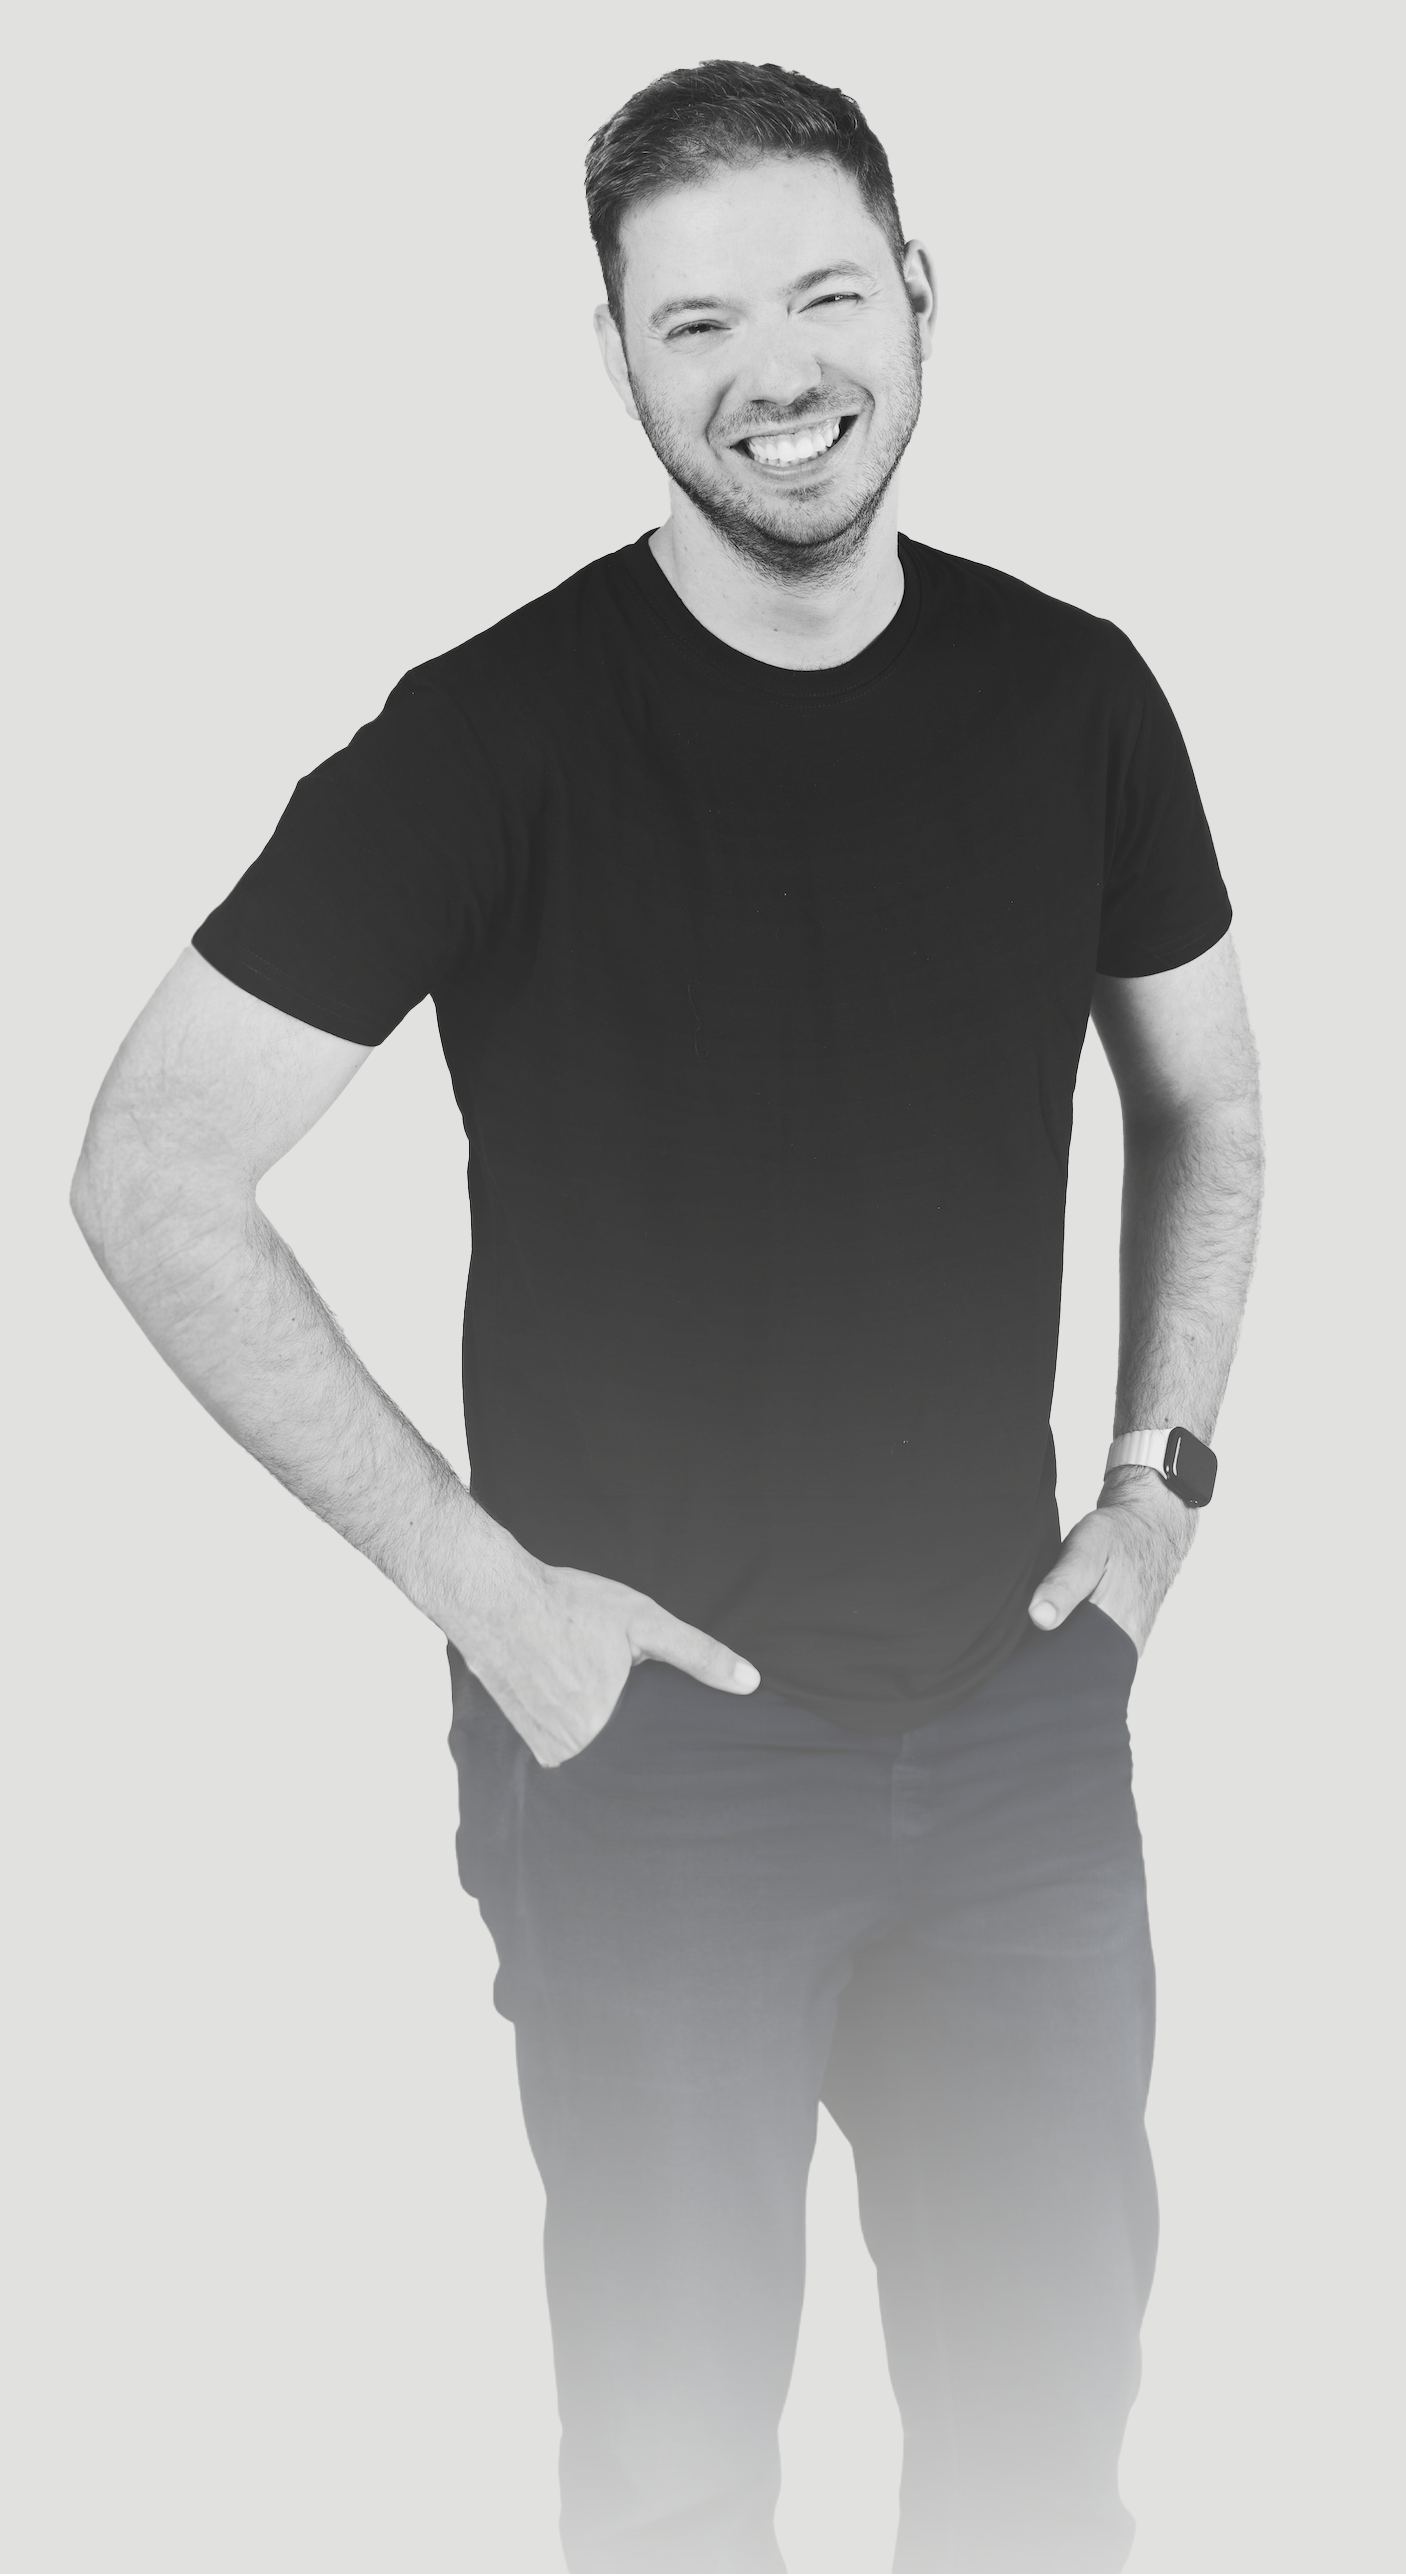
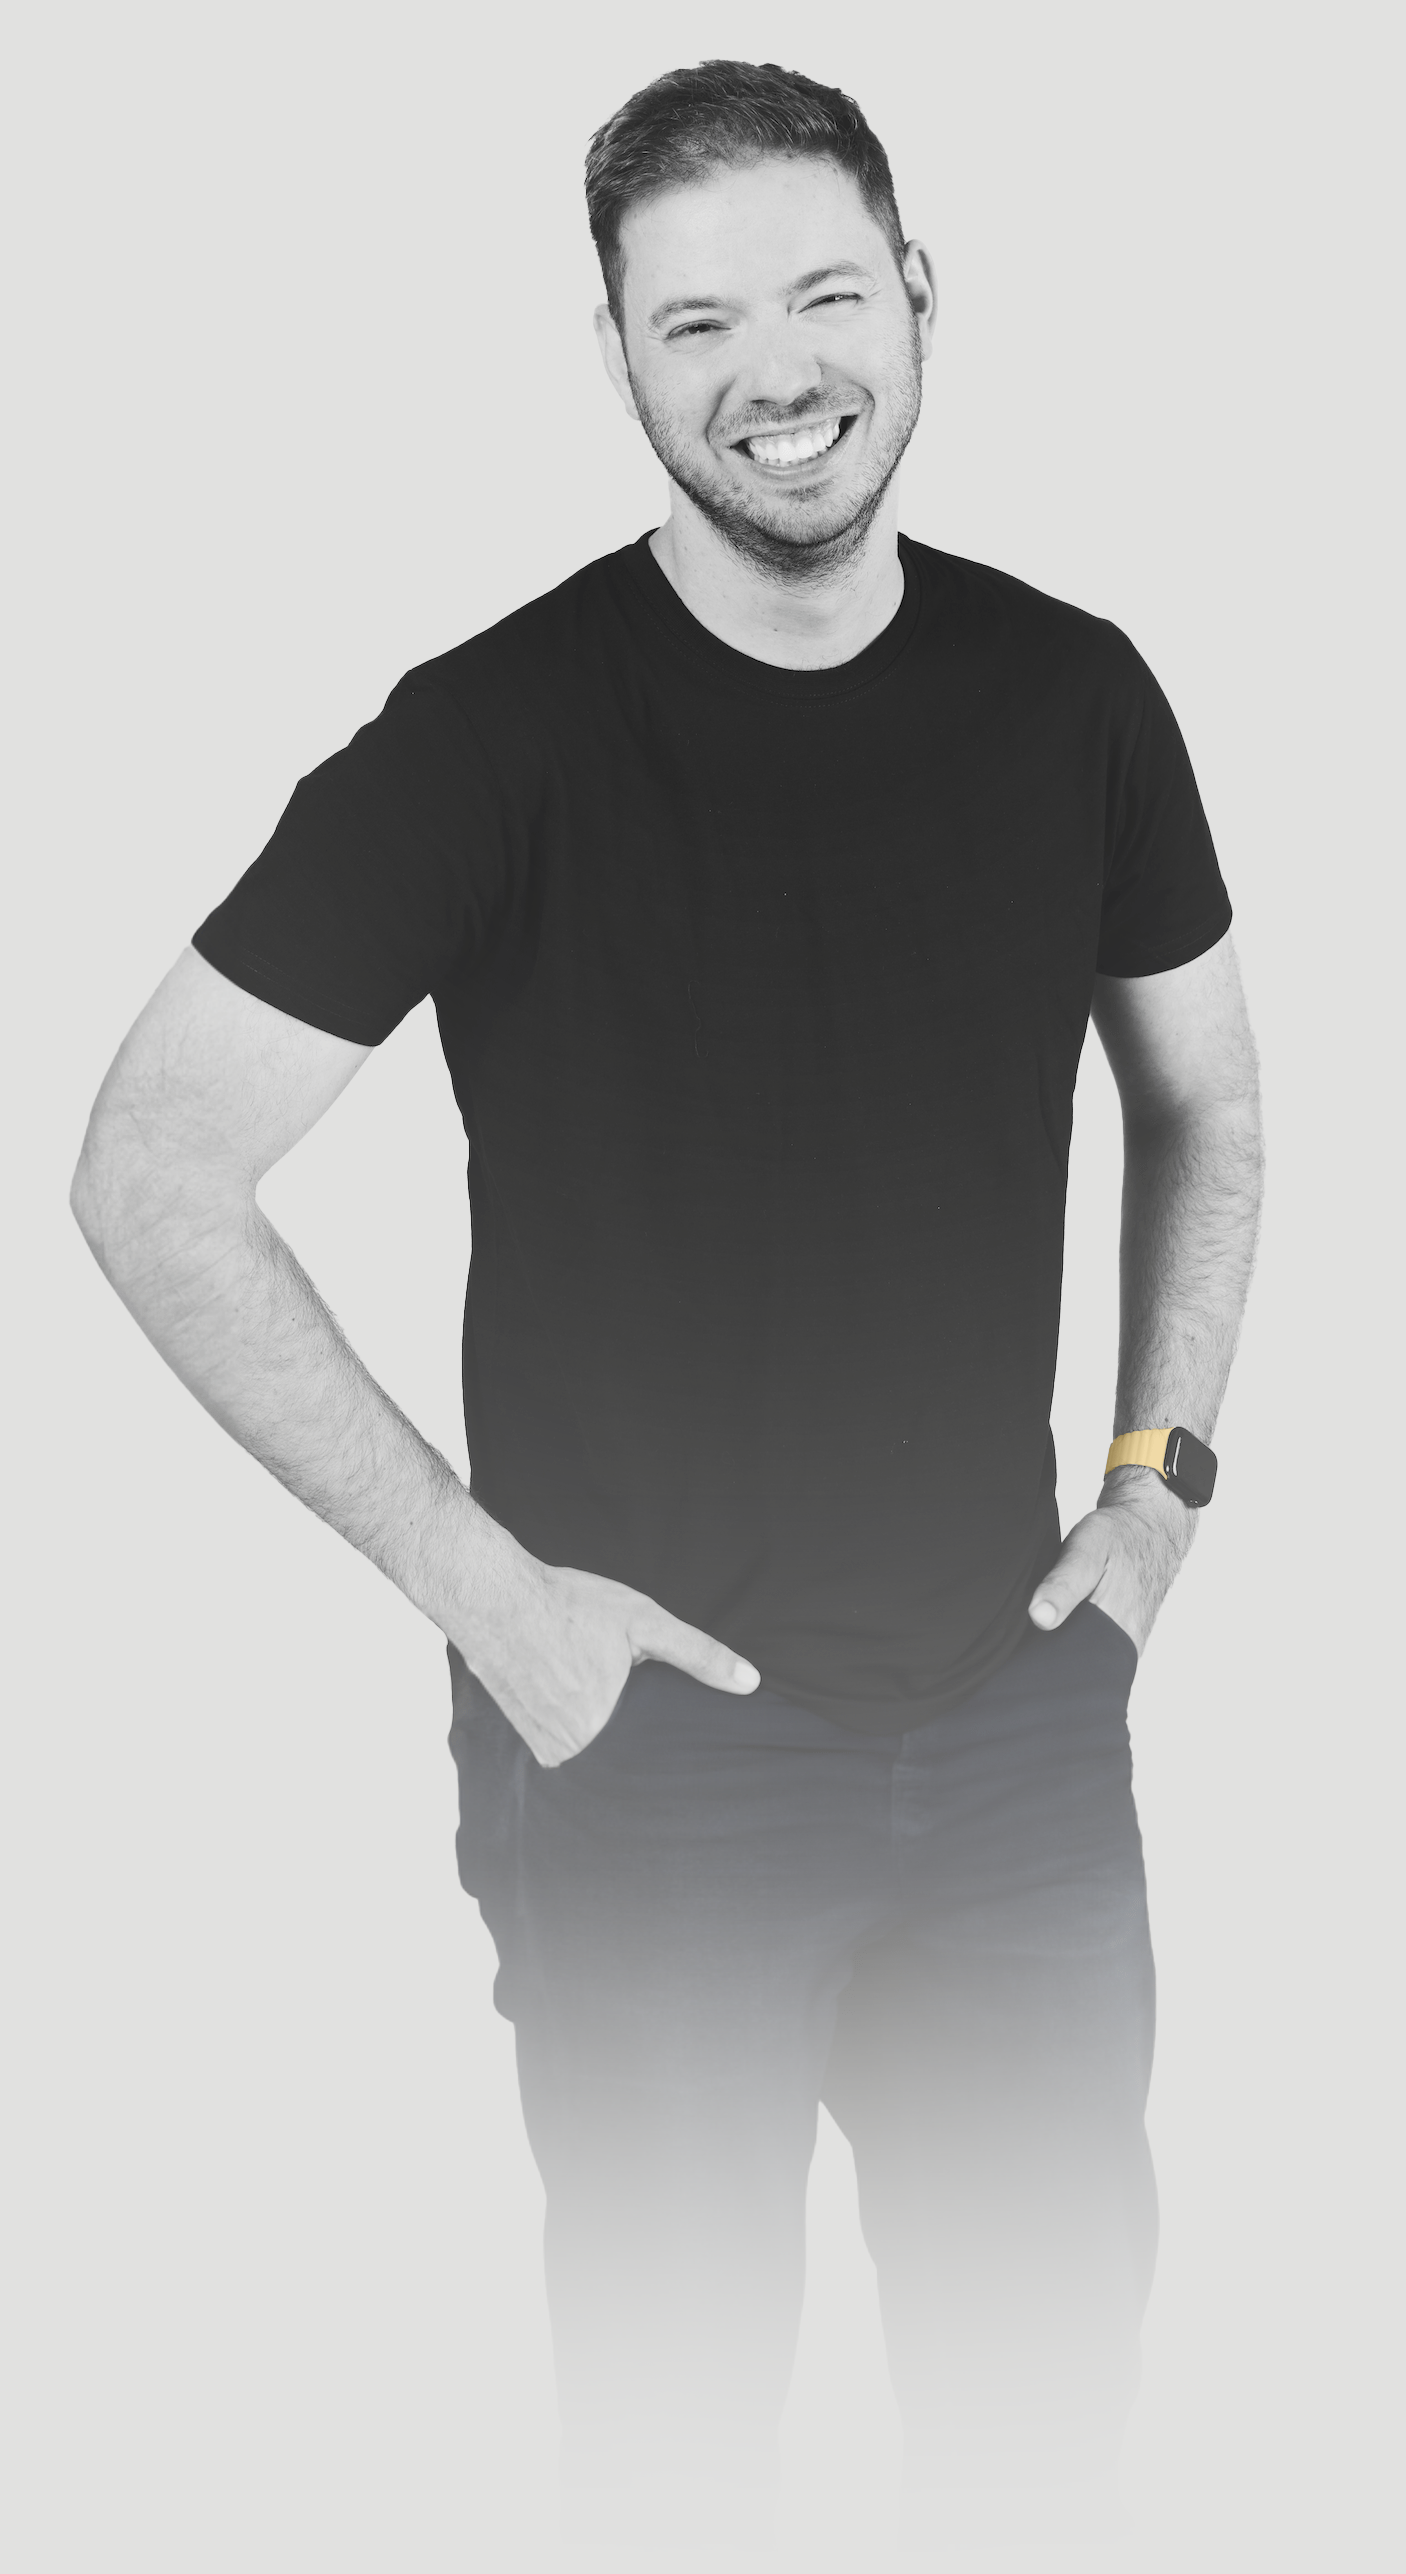
feat: Added Dark Theme

Changed region(s): [[0.367, 0.777, 0.8257, 0.9635], [0.7952, 0.5284, 0.8257, 0.5905]]

diff --git a/src/App.tsx b/src/App.tsx
@@ -1,23 +1,28 @@
 import "./App.css";
+import useDarkMode from "./hooks/useDarkMode";
 import { Socials } from "./components/Socials";
 import BlogPosts from "./components/BlogPosts";
 
-const OzImage = () => (
-  <div className="lg:h-[100svh] h-[50svh] pt-6 lg:pt-0">
-    <img
-      src="/me.png"
-      className="h-full lg:pl-10 pl-[4.5rem]"
-      alt="Here I'd put an image of me - if the server would allow me!"
-    />
-  </div>
-);
+const OzImage = () => {
+  const isDarkMode = useDarkMode();
+  console.log(isDarkMode);
+  return (
+    <div className="lg:h-[100svh] h-[50svh] pt-6 lg:pt-0">
+      <img
+        src={isDarkMode ? "/me_dark.png" : "/me.png"}
+        className="h-full lg:pl-10 pl-[4.5rem]"
+        alt="Here I'd put an image of me - if the server would allow me!"
+      />
+    </div>
+  );
+};
 
 const GithubLink = () => {
   return (
     <div className="pt-4 pb-10 lg:pb-0 lg:pt-16 absolute">
       <a
         href="https://github.com/OzTamir/Homepage"
-        className="text-slate-700/30 text-[0.75rem] hover:text-slate-700"
+        className="text-slate-700/30 text-[0.75rem] hover:text-slate-700 dark:hover:text-slate-300 font-semibold dark:text-slate-500/50"
       >
         <pre>This site is open-source! 🚀</pre>
       </a>
@@ -28,26 +33,26 @@ const GithubLink = () => {
 const Hero = () => (
   <div className="flex flex-col justify-center lg:w-1/2 sm:max-md:w-full h-full my-auto px-10 lg:px-0 lg:mr-32">
     <div className="text-center lg:text-left">
-      <div className="flex flex-col justify-center lg:justify-start border-b-2 border-b-indigo-700/20 lg:mb-10 mb-4">
+      <div className="flex flex-col justify-center lg:justify-start border-b-2 border-b-golden/20 lg:mb-10 mb-4">
         <div className="flex items-center justify-center lg:justify-start gap-2">
-          <p className="font-medium text-indigo-700 text-xl">Oz Tamir</p>
+          <p className="font-medium text-golden text-xl">Oz Tamir</p>
         </div>
 
-        <h1 className="font-bold text-gray-800 text-4xl md:text-6xl xl:text-7xl lg:mb-10 mb-4">
+        <h1 className="font-bold text-gray-800 text-4xl md:text-6xl xl:text-7xl lg:mb-10 mb-4 dark:text-stone-100">
           ¯\_(ツ)_/¯ as a Service
         </h1>
 
-        <p className="font-normal text-gray-500 text-sm md:text-md xl:text-lg lg:mb-10 mb-4">
-          Hi, I’m <span className="text-indigo-800 font-bold mr-2">Oz</span> 👋
+        <p className="font-normal text-gray-500 dark:text-stone-200 text-sm md:text-md xl:text-lg lg:mb-10 mb-4">
+          Hi, I’m <span className="text-golden font-bold mr-1">Oz</span> 👋
           <br />
           I'm currently working on R&D and Marketing over at{" "}
-          <a href="https://blockaid.io" className="text-indigo-700">
+          <a href="https://blockaid.io" className="text-golden">
             Blockaid
           </a>
           ,
           <br />
           but I never skip a chance to work on side projects - see my{" "}
-          <a href="posts.oztamir.com" className="text-indigo-700">
+          <a href="posts.oztamir.com" className="text-golden">
             blog
           </a>{" "}
           for more.

diff --git a/src/components/BlogPosts.tsx b/src/components/BlogPosts.tsx
@@ -12,8 +12,8 @@ const BlogPosts = () => {
   }
 
   return (
-    <div className="container mx-auto px-4 pb-10 border-b-2 border-b-indigo-700/20 lg:mb-10 mb-4">
-      <h2 className="text-2xl font-bold mb-4 text-center">
+    <div className="container mx-auto px-4 pb-10 border-b-2 border-b-golden/20 lg:mb-10 mb-4">
+      <h2 className="text-2xl font-bold mb-4 text-center dark:text-stone-200">
         <a href="https://posts.oztamir.com">
           <code>Latest Blog Posts</code>
         </a>
@@ -22,17 +22,20 @@ const BlogPosts = () => {
         {posts.map((post) => (
           <div
             key={post.id}
-            className="max-w-sm rounded-2xl overflow-hidden shadow-lg cursor-pointer hover:shadow-xl transition-shadow duration-300"
+            className="max-w-sm rounded-2xl overflow-hidden shadow-lg cursor-pointer hover:shadow-xl transition-shadow duration-300 dark:bg-zinc-600
+                        dark:border-2 dark:border-stone-200/50"
             onClick={() => window.open(`${post.url}`, "_blank")}
           >
             <img
-              className="w-full h-28 object-cover"
+              className="w-full h-28 object-cover border-b-2 border-b-golden/20 dark:border-stone-200/50"
               src={post.feature_image}
               alt={post.title}
             />
             <div className="px-6 py-4">
-              <div className="font-bold text-md mb-2">{post.title}</div>
-              <p className="text-gray-700 text-base">
+              <div className="font-bold text-md mb-2 dark:text-stone-200">
+                {post.title}
+              </div>
+              <p className="text-gray-700 dark:text-stone-300 text-base">
                 {post.title.length < 30 ? post.excerpt : "Read more..."}
               </p>
             </div>

diff --git a/src/hooks/useDarkMode.ts b/src/hooks/useDarkMode.ts
@@ -1,0 +1,26 @@
+import { useState, useEffect } from "react";
+
+const useDarkMode = (): boolean => {
+  const [isDarkMode, setIsDarkMode] = useState<boolean>(false);
+
+  useEffect(() => {
+    const mediaQuery = window.matchMedia("(prefers-color-scheme: dark)");
+
+    const handleChange = (e: MediaQueryListEvent) => {
+      setIsDarkMode(e.matches);
+    };
+
+    // Set initial value
+    setIsDarkMode(mediaQuery.matches);
+
+    // Add listener for changes
+    mediaQuery.addEventListener("change", handleChange);
+
+    // Clean up
+    return () => mediaQuery.removeEventListener("change", handleChange);
+  }, []);
+
+  return isDarkMode;
+};
+
+export default useDarkMode;

diff --git a/src/components/Socials.tsx b/src/components/Socials.tsx
@@ -36,7 +36,7 @@ export const Socials = () => {
         <a
           key={social.title}
           href={social.href}
-          className="text-indigo-700 hover:text-black font-semibold text-lg"
+          className="text-darkGolden hover:text-black font-semibold text-lg"
         >
           {social.icon}
         </a>

diff --git a/tailwind.config.js b/tailwind.config.js
@@ -2,7 +2,12 @@
 export default {
   content: ["./index.html", "./src/**/*.{js,ts,jsx,tsx}"],
   theme: {
-    extend: {},
+    extend: {
+      colors: {
+        golden: "#FFB300",
+        darkGolden: "#FFA000",
+      },
+    },
   },
   plugins: [],
 };

diff --git a/src/index.css b/src/index.css
@@ -7,3 +7,9 @@ body {
   width: 100%;
   height: 100%;
 }
+
+@media (prefers-color-scheme: dark) {
+  body {
+    background: #1a202c;
+  }
+}
